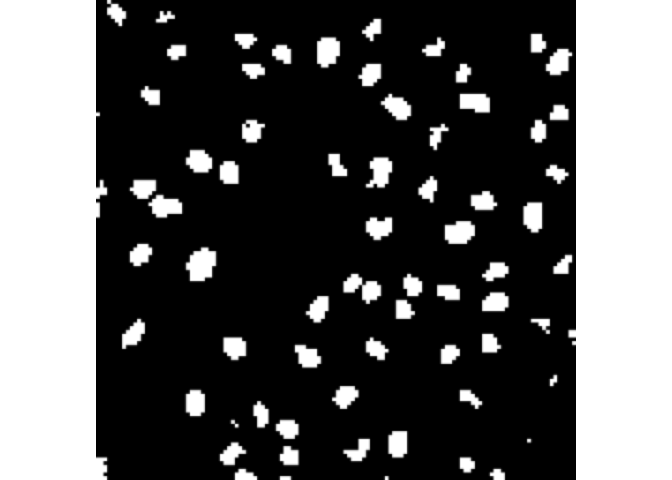
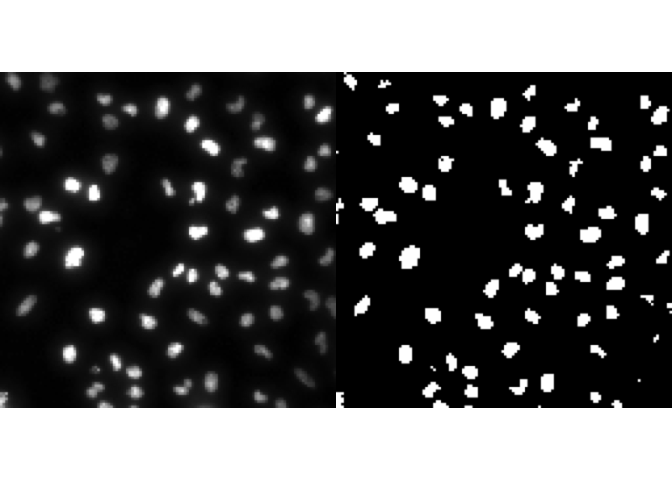
update examples based on BiocCheck

diff --git a/README.md b/README.md
@@ -202,10 +202,10 @@ name (e.g. `blobs`) for the label pyramid associated with the image.
 td <- tempfile(fileext = ".ome.zarr")
 
 # write image pyramid
-ome_img <- ome_write(img,
+ome_nuc <- ome_write(nuc,
                      path = td,
                      version = "0.4",
-                     storage_options = list(chunk_dim = c(64,64,1)))
+                     storage_options = list(chunk_dim = c(64,64)))
 
 ome_nuc_th <- ome_write(nuc_th,
                         path = td,
@@ -214,7 +214,11 @@ ome_nuc_th <- ome_write(nuc_th,
                         storage_options = list(chunk_dim = c(64,64)), 
                         type = "label", 
                         label_name = "blobs")
-#> An image pyramid was found at '/var/folders/vf/d8kg507x41xfh6z9vgv9skksdsn29w/T//RtmpAFXkPo/filee73723f4f451.ome.zarr', writing labels to 'labels/blobs'
+#> An image pyramid was found at '/var/folders/vf/d8kg507x41xfh6z9vgv9skksdsn29w/T//RtmpPFoYQ2/file111b73d89153e.ome.zarr', writing labels to 'labels/blobs'
+
+# plot
+layout(matrix(1:2, nrow=1))
+plot(ome_nuc, 3)
 plot(ome_nuc_th, 3)
 ```
 